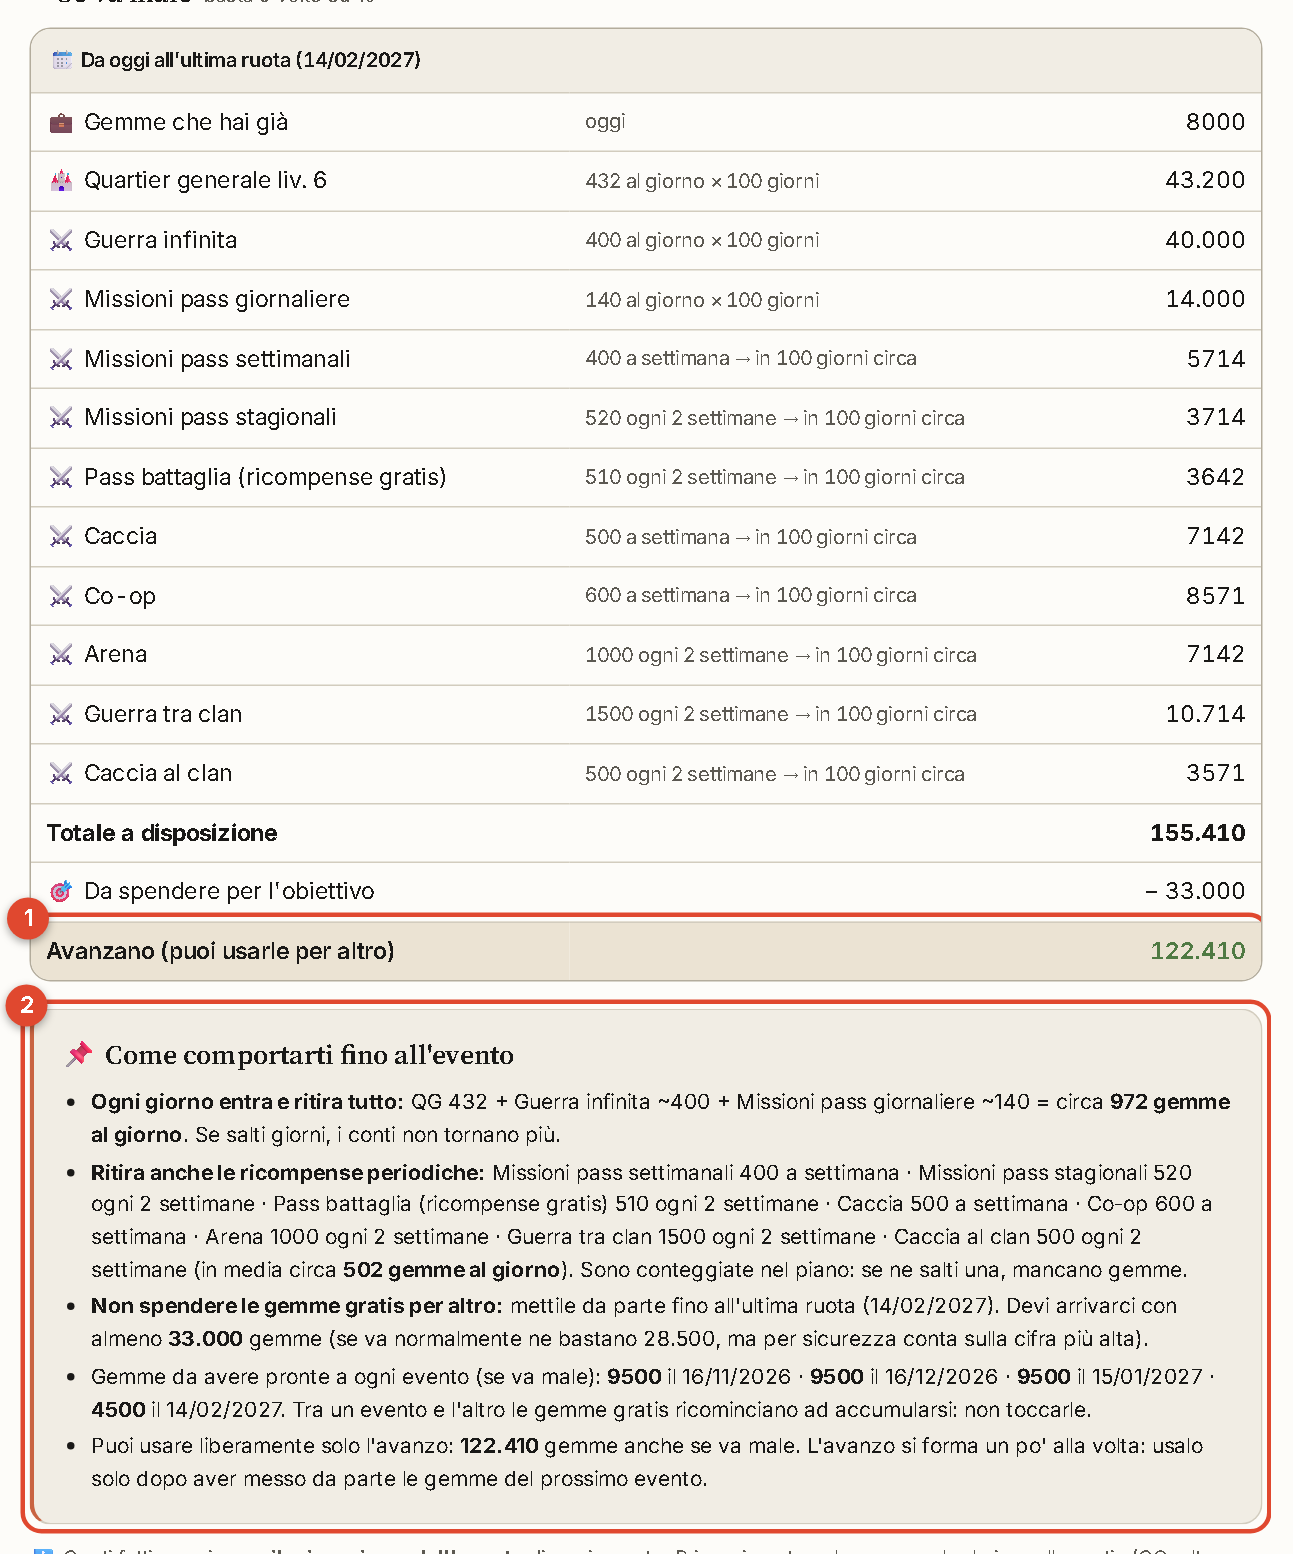
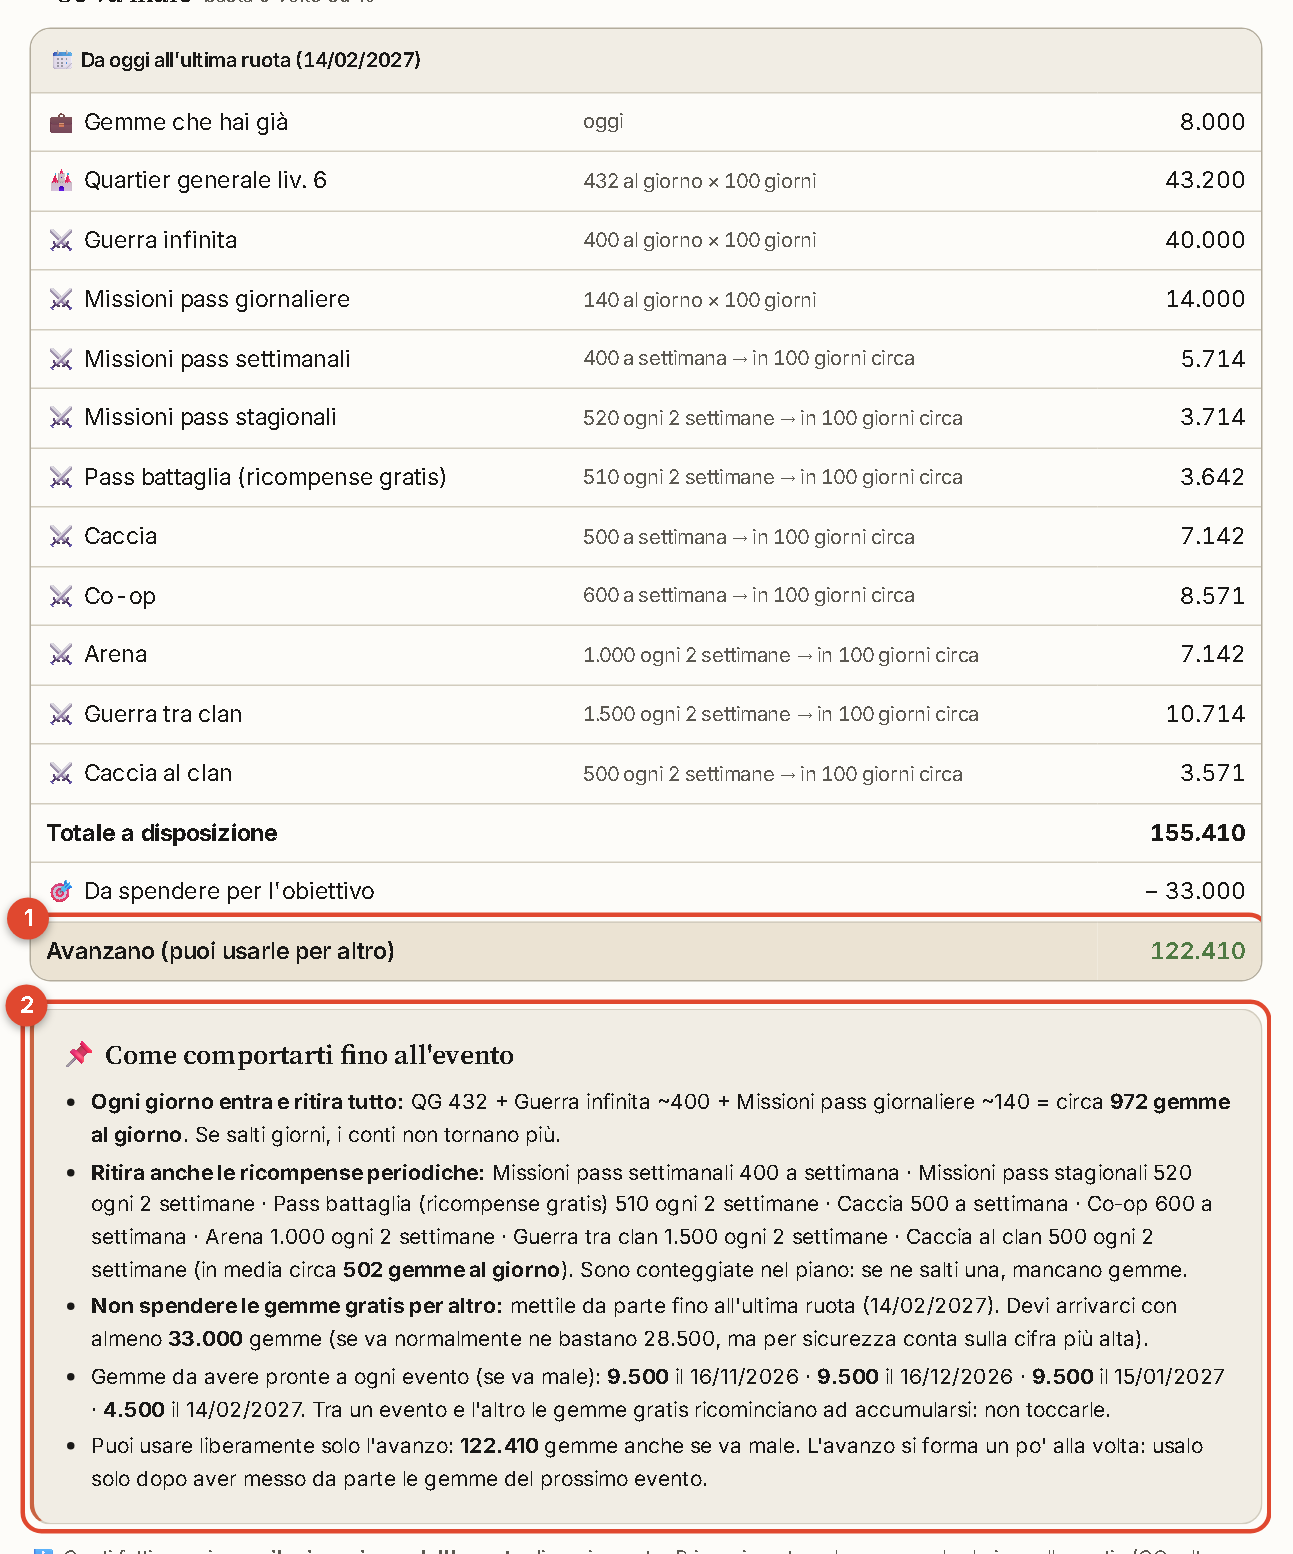
v5.3: punto delle migliaia anche sui numeri a 4 cifre
it-IT scrive 4200 ma 12.960: fmt ed eur usano de-DE, stessi separatori ma
col punto sempre. Screenshot della guida rigenerati.

diff --git a/index.html b/index.html
@@ -6,11 +6,11 @@
 <title>War Inc Calcolatore</title>
 <link rel="preconnect" href="https://fonts.googleapis.com"><link rel="preconnect" href="https://fonts.gstatic.com" crossorigin>
 <link href="https://fonts.googleapis.com/css2?family=Inter:wght@400;500;600;700&family=Source+Serif+4:opsz,wght@8..60,500;8..60,600;8..60,700&display=swap" rel="stylesheet">
-<link rel="stylesheet" href="css/style.css?v=5.2">
+<link rel="stylesheet" href="css/style.css?v=5.3">
 </head>
 <body>
 <div class="top"><div class="top-in">
-  <h1>War Inc<span class="lbl"> ·</span> Calcolatore <small>v5.2</small></h1>
+  <h1>War Inc<span class="lbl"> ·</span> Calcolatore <small>v5.3</small></h1>
   <nav class="tabs" id="tabs">
     <button data-p="calc" class="on">🧮 Calcolatore</button>
     <button data-p="mine" hidden>⛏ Miniera</button><!-- miniera nascosta: da riattivare togliendo hidden -->
@@ -479,13 +479,13 @@
 </section>
 </div>
 
-<script src="js/dati.js?v=5.2"></script>
-<script src="js/calcoli.js?v=5.2"></script>
-<script src="js/calcolatore.js?v=5.2"></script>
-<script src="js/zero-shopping.js?v=5.2"></script>
-<script src="js/impostazioni.js?v=5.2"></script>
-<script src="js/avanzata.js?v=5.2"></script>
-<script src="js/miniera.js?v=5.2"></script>
-<script src="js/avvio.js?v=5.2"></script>
+<script src="js/dati.js?v=5.3"></script>
+<script src="js/calcoli.js?v=5.3"></script>
+<script src="js/calcolatore.js?v=5.3"></script>
+<script src="js/zero-shopping.js?v=5.3"></script>
+<script src="js/impostazioni.js?v=5.3"></script>
+<script src="js/avanzata.js?v=5.3"></script>
+<script src="js/miniera.js?v=5.3"></script>
+<script src="js/avvio.js?v=5.3"></script>
 </body>
 </html>

diff --git a/js/calcoli.js b/js/calcoli.js
@@ -4,8 +4,9 @@
    UTILITÀ
    ===================================================================== */
 const $ = s => document.querySelector(s);
-const fmt = (n,d=0) => (n==null||!isFinite(n)) ? "—" : n.toLocaleString("it-IT",{maximumFractionDigits:d,minimumFractionDigits:d});
-const eur = n => (n==null||!isFinite(n)) ? "—" : n.toLocaleString("it-IT",{style:"currency",currency:"EUR"});
+// "de-DE": stessi separatori dell'italiano, ma col punto anche sui numeri a 4 cifre (it-IT scrive 4200)
+const fmt = (n,d=0) => (n==null||!isFinite(n)) ? "—" : n.toLocaleString("de-DE",{maximumFractionDigits:d,minimumFractionDigits:d});
+const eur = n => (n==null||!isFinite(n)) ? "—" : n.toLocaleString("de-DE",{style:"currency",currency:"EUR"});
 const esc = s => String(s).replace(/[&<>"]/g,c=>({"&":"&amp;","<":"&lt;",">":"&gt;",'"':"&quot;"}[c]));
 const gg = d => fmt(d)+(d===1?" giorno":" giorni");
 const pct = x => (x>=0?"+":"")+fmt(x*100)+"%";
